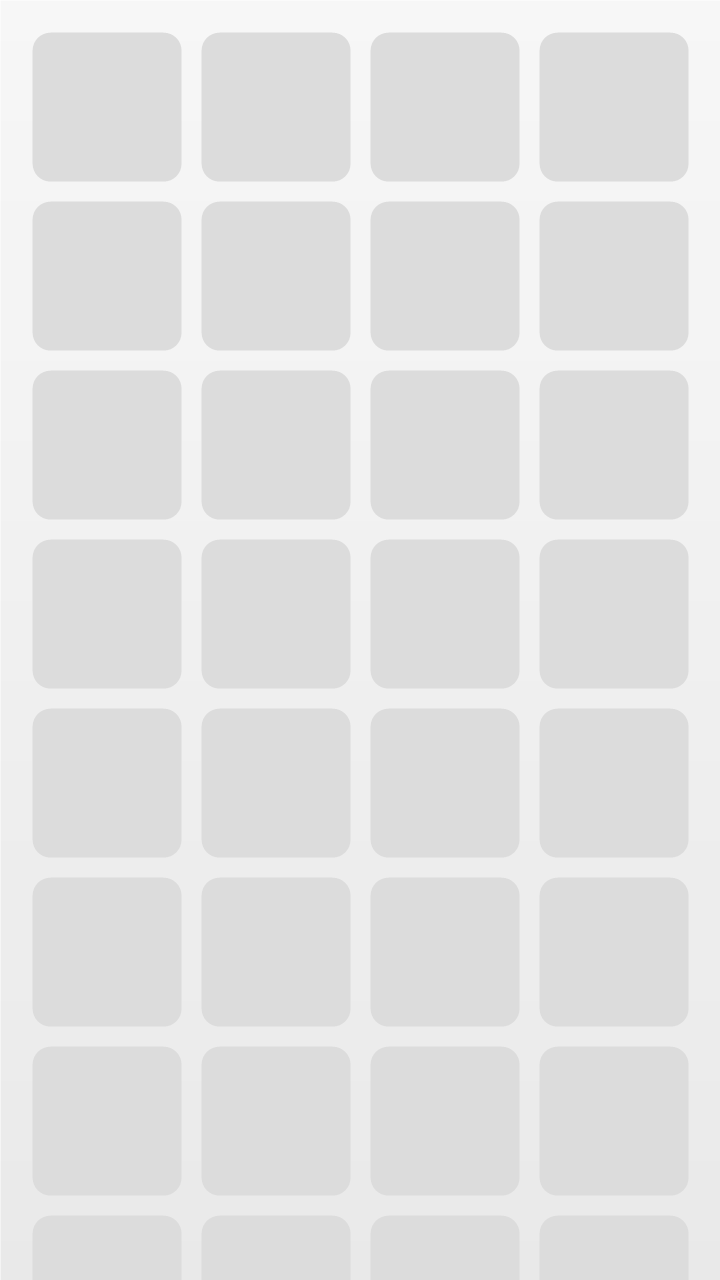
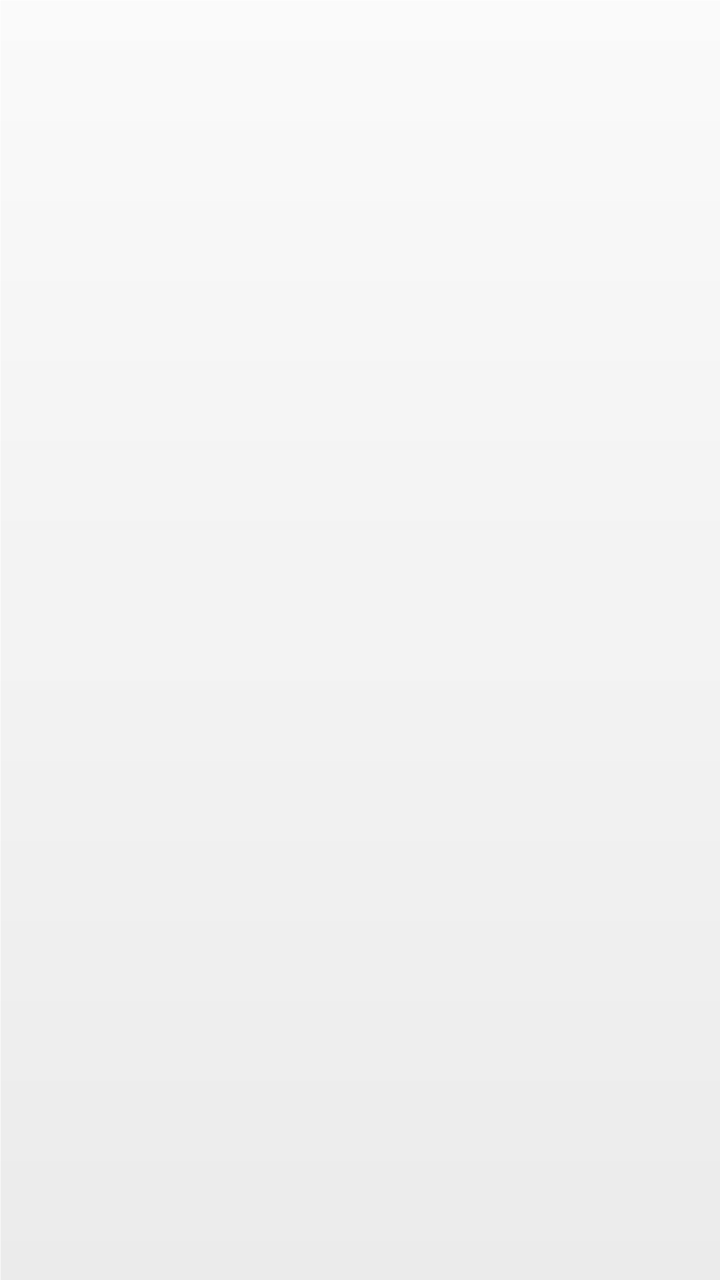
Android: redraw the backgrounds as backgrounds, and shrink the theme picker
Looked at the generated art properly for the first time, which found the real
problem: the slot grid was baked into the wallpaper while the app ALSO draws slot
fillers into the grid. Two grids at different pitches, one stretched to the screen
and one laid out by the tiles, on top of each other — they can never line up. That
is what looked weird.

So the wallpapers no longer draw anything the layout also draws. The slots come
from ConsoleSkin.slotFillers, which align with real tiles because they are tiles.
What is left is atmosphere: a wash, a faint ribbon, a soft vignette.

The the bubble skin's bubbles were the other half — big and opaque enough to fight the white
labels sitting on them. Now nine soft ones at a third of the alpha.

No vignette on the light skins: a radial over a near-white field bands visibly at
8-bit colour and reads as a rendering fault rather than as depth.

Picker rows shrunk to a 58x34 sample with 13sp/10sp text, so nine skins fit without
scrolling past the fold.

Changed region(s): [[0.0306, 0.0, 0.9778, 0.3438]]

diff --git a/android/app/src/main/java/com/abacus/dualscreen/ThemesActivity.kt b/android/app/src/main/java/com/abacus/dualscreen/ThemesActivity.kt
@@ -71,12 +71,12 @@ class ThemesActivity : AppCompatActivity() {
         return LinearLayout(this).apply {
             orientation = LinearLayout.HORIZONTAL
             gravity = Gravity.CENTER_VERTICAL
-            setPadding(dp(10), dp(8), dp(10), dp(8))
+            setPadding(dp(8), dp(5), dp(8), dp(5))
             tag = if (chosen) "accentEdge" else "card"      // Appearance paints these
             layoutParams = LinearLayout.LayoutParams(
                 ViewGroup.LayoutParams.MATCH_PARENT,
                 ViewGroup.LayoutParams.WRAP_CONTENT,
-            ).apply { bottomMargin = dp(8) }
+            ).apply { bottomMargin = dp(5) }
 
             setOnClickListener {
                 settings.consoleTheme = theme.id
@@ -93,7 +93,7 @@ class ThemesActivity : AppCompatActivity() {
 
                 addView(TextView(context).apply {
                     text = if (chosen) "● ${theme.name}" else theme.name
-                    setTextSize(TypedValue.COMPLEX_UNIT_SP, 14f)
+                    setTextSize(TypedValue.COMPLEX_UNIT_SP, 13f)
                 })
 
                 val note = listOfNotNull(
@@ -104,7 +104,7 @@ class ThemesActivity : AppCompatActivity() {
                 if (note.isNotEmpty()) {
                     addView(TextView(context).apply {
                         text = note
-                        setTextSize(TypedValue.COMPLEX_UNIT_SP, 11f)
+                        setTextSize(TypedValue.COMPLEX_UNIT_SP, 10f)
                         alpha = 0.7f
                     })
                 }
@@ -123,17 +123,17 @@ class ThemesActivity : AppCompatActivity() {
             orientation = LinearLayout.HORIZONTAL
             gravity = Gravity.CENTER
             background = store.background(theme) ?: ConsoleSkin.backdrop(theme)
-            layoutParams = LinearLayout.LayoutParams(dp(76), dp(48))
+            layoutParams = LinearLayout.LayoutParams(dp(58), dp(34))
 
             for (glyph in listOf("▣", "⇅")) {
                 addView(TextView(context).apply {
                     text = glyph
                     gravity = Gravity.CENTER
                     setTextColor(theme.tileGlyph)
-                    setTextSize(TypedValue.COMPLEX_UNIT_SP, 12f)
+                    setTextSize(TypedValue.COMPLEX_UNIT_SP, 9f)
                     background = ConsoleSkin.tileFace(this@ThemesActivity, theme)
-                    layoutParams = LinearLayout.LayoutParams(dp(26), dp(26))
-                        .apply { rightMargin = dp(4) }
+                    layoutParams = LinearLayout.LayoutParams(dp(20), dp(20))
+                        .apply { rightMargin = dp(3) }
                 })
             }
         }
